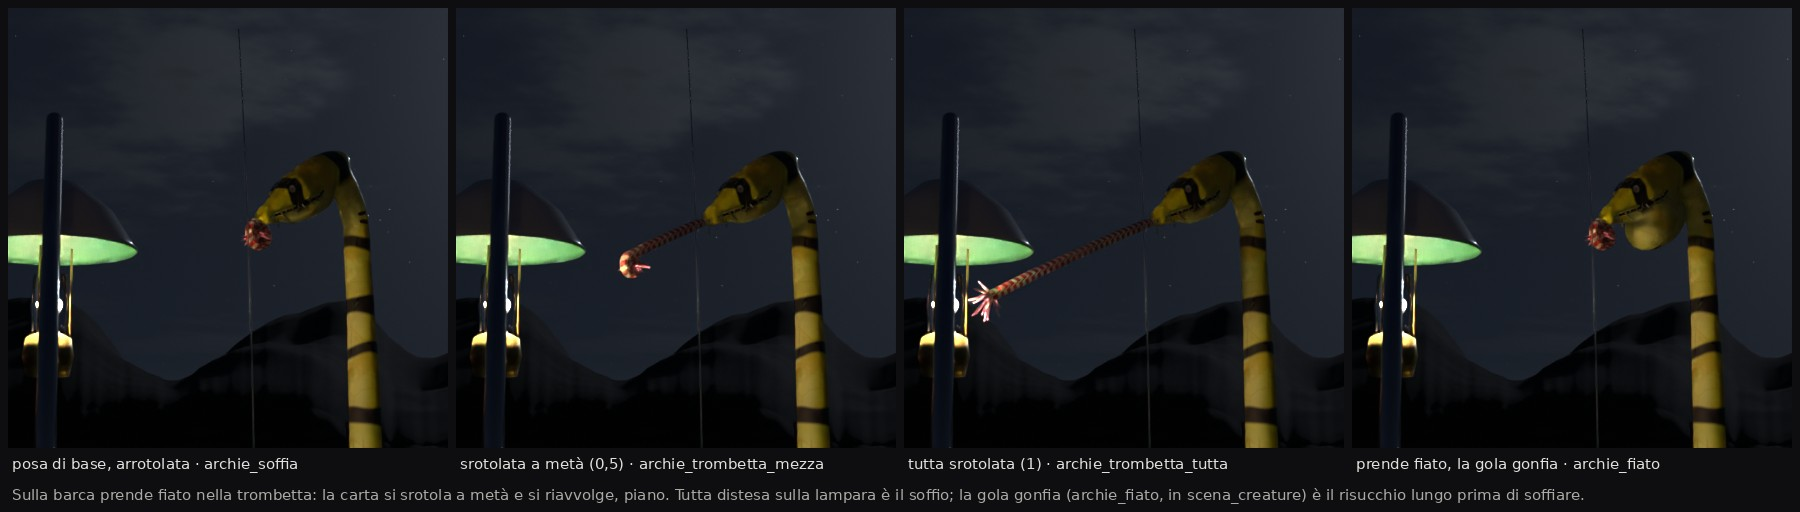
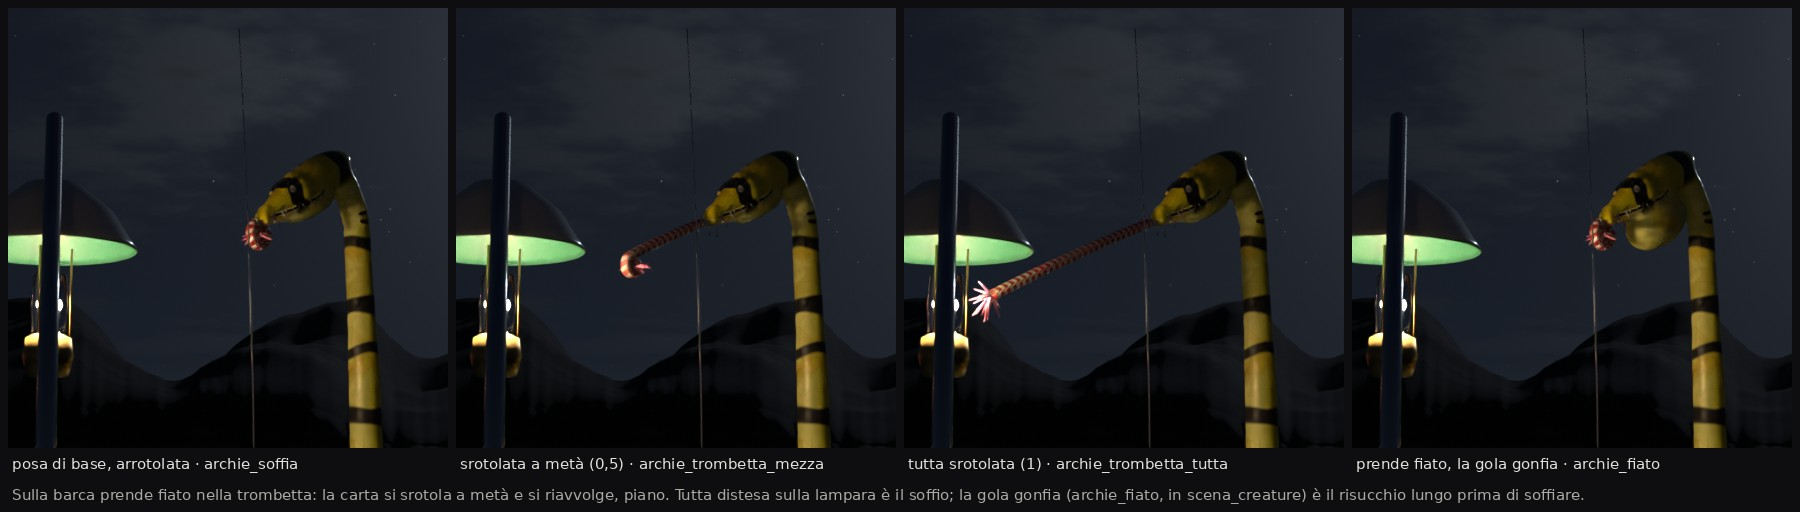
Archie: la gola si gonfia per tutto il risucchio e si sgonfia piano al buio (proposta dell'agente); tavole in qualità piena. Strati: si taglia la riga in più che Blender a volte rende in fondo alla regione. Lampy: vetrina in bozza
Claude-Session: https://claude.ai/code/session_01EnpEiCdqMobb6kXAdCVCvL

diff --git a/src/app/night.ts b/src/app/night.ts
@@ -1118,8 +1118,10 @@ export class Night {
     const breath = !idle ? 0 : hb < 0.6 ? smooth01(hb / 0.6) : hb < 0.9 ? 1 : hb < 1.8 ? 1 - smooth01((hb - 0.9) / 0.9) : 0;
     v.aHornHalf = approach(v.aHornHalf, breath, 18, dt);
     v.aHornFull = approach(v.aHornFull, ar && (ar.state === 'blowing' || ar.state === 'attack') ? 1 : 0, 25, dt);
-    // il risucchio: la gola si gonfia piano mentre prende fiato (e si sgonfia di colpo quando soffia o aspetta)
-    v.aFiato = ar?.state === 'inhaling' ? Math.min(1, v.aFiato + dt / 0.8) : Math.max(0, v.aFiato - dt / 0.25);
+    // il risucchio: la gola si gonfia per tutto il tempo che prende fiato; quando soffia si sgonfia di colpo, se
+    // l'hai spenta in tempo si sgonfia piano, in un sospiro, mentre aspetta al buio
+    if (ar?.state === 'inhaling') v.aFiato = Math.max(v.aFiato, ar.breath);
+    else v.aFiato = Math.max(0, v.aFiato - dt / (ar?.state === 'blowing' || ar?.state === 'attack' ? 0.3 : 1.5));
 
     // Robin: sale dal mare sul bordo mentre arriva e ruba; scacciato scivola giù in mare. La luce in faccia cresce
     // mentre lo scacci, e se ne va ancora abbagliato

diff --git a/tools/render/lampy.py b/tools/render/lampy.py
@@ -208,7 +208,9 @@ def colori_bocca(fr, v):
 
     def mouth(p):
         q, d, front = misura(p)
-        inside = np.clip((max(a - v['r'], 0.004) * 1.05 - d) / 0.012, 0, 1) * (q[:, 1] > float(c[1]) - 0.04)
+        # dentro la bocca: solo nella galleria che scende in gola (sull'asse, dietro la testa, c'è la nuca)
+        dentro = (q[:, 1] > float(c[1]) - 0.04) & (q[:, 1] < 0.02)
+        inside = np.clip((max(a - v['r'], 0.004) * 1.05 - d) / 0.012, 0, 1) * dentro
         lip = np.clip(1 - np.abs(d - a) / 0.05, 0, 1) * front * 0.42
         return np.maximum(inside, lip).astype(F)
 
@@ -712,7 +714,7 @@ def tavola_vetrina(size=(480, 360)):
     sheet = Image.new('RGB', (3 * W, 2 * (H + cap)), (14, 14, 16))
     d = ImageDraw.Draw(sheet)
     font = _font(15)
-    titoli = ['insieme, dalla parte della barca', 'la testa', 'da dietro: pori, pinne, ventosa della coda']
+    titoli = ['insieme, dalla parte della barca', 'la testa', 'da dietro: l\'arco, le pinne, la ventosa della coda']
     righe = [[os.path.join(CACHE, 'vetrina', f'lampy_{n}.png') for n in ('insieme', 'testa', 'fuori')],
              [os.path.join(CACHE, 'vetrina', f'lampy_ventosa_{i}.png') for i in range(len(VENTOSE))]]
     for r, (paths, tt) in enumerate(zip(righe, (titoli, ['ventosa ' + t for t, _, _ in VENTOSE]))):

diff --git a/tools/render/jobs.py b/tools/render/jobs.py
@@ -125,6 +125,11 @@ def yaw_of(p):
 
 def encode_layer(key, exr, space, width, rect=None, yaw_center=0.0, with_alpha=False, data=False, extra=None, quality=90):
     p = post.read_exr(exr)
+    if rect is not None:
+        # Blender a volte rende una riga in più in fondo alla regione (i conti in float32 sul bordo): si taglia alle
+        # misure del riquadro, se no l'immagine non combacia col rect
+        h, w = rect[3] - rect[1], rect[2] - rect[0]
+        p = {k: (v[:h, :w] if v.ndim >= 2 and v.shape[0] >= h and v.shape[1] >= w else v) for k, v in p.items()}
     W, H = pano_size(width)
     alpha = p.get('alpha') if with_alpha else None
     entry = {'space': space, 'yaw': yaw_center, 'rect': list(rect) if rect else [0, 0, W, H], 'passes': {}}

diff --git a/tools/render/archie.py b/tools/render/archie.py
@@ -582,7 +582,7 @@ def _set_barca():
 SHOTS = {
     # (riferimento, camera, bersaglio, lente): camera e bersaglio rispetto alla testa, nelle coordinate della barca
     # (la lampara è lì accanto: le camere stanno fuori dal suo cappello)
-    'insieme': ('testa', (1.45, -1.45, -0.80), (-0.35, 0.10, -0.95), 26),
+    'insieme': ('testa', (1.60, -1.60, -0.70), (-0.40, 0.10, -0.62), 24),
     'testa': ('testa', (-0.40, -1.05, -0.30), (-0.12, -0.04, -0.10), 45),
     'fuori': ('testa', (-1.75, 2.55, -0.45), (0.05, 0.0, -0.75), 28),
     'bocca': ('testa', (-0.20, -0.66, -0.16), (-0.20, -0.06, -0.10), 60),
